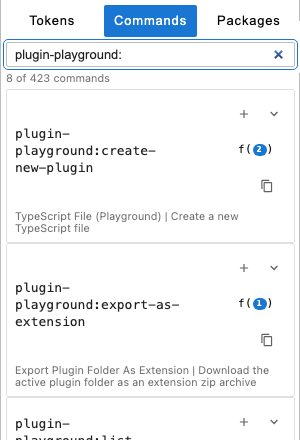
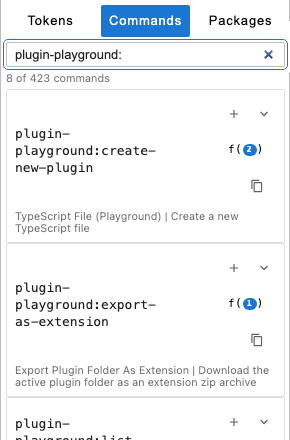
fix ordering and layout

diff --git a/ui-tests/tests/readme-screenshots.spec.ts b/ui-tests/tests/readme-screenshots.spec.ts
@@ -12,6 +12,7 @@ const EXAMPLE_SECTION_ID = 'jp-plugin-example-sidebar';
 const LOAD_ON_SAVE_CHECKBOX_LABEL = 'Auto Load on Save';
 const READABLE_DEMO_FILE = 'readme-screenshots.ts';
 const RIGHT_SIDEBAR_SCREENSHOT_WIDTH = 300;
+const EXTENSION_POINTS_GALLERY_WIDTH = 290;
 const EXTENSION_EXAMPLES_BOTTOM_PADDING = 24;
 const EXTENSION_EXAMPLES_MIN_HEIGHT = 180;
 const EDITOR_TOOLBAR_SCREENSHOT_HEIGHT = 420;
@@ -240,7 +241,7 @@ test('generate README screenshots', async ({ page }) => {
   }
 
   const extensionPointsSection = await openSidebarPanel(page, TOKEN_SECTION_ID);
-  await page.sidebar.setWidth(RIGHT_SIDEBAR_SCREENSHOT_WIDTH, 'right');
+  await page.sidebar.setWidth(EXTENSION_POINTS_GALLERY_WIDTH, 'right');
 
   await saveTopCroppedScreenshot(
     page,
@@ -268,6 +269,25 @@ test('generate README screenshots', async ({ page }) => {
     extensionPointsSection.locator('.jp-PluginPlayground-listItem').first()
   ).toBeVisible();
   await saveScreenshot(extensionPointsSection, 'extension-points-commands.png');
+
+  await extensionPointsSection.getByRole('tab', { name: 'Packages' }).click();
+  const packageFilter = extensionPointsSection.locator(
+    'input[aria-label="Filter packages"]'
+  );
+  await packageFilter.fill('@jupyterlab/');
+  await expect(
+    extensionPointsSection.locator('.jp-PluginPlayground-listItem').first()
+  ).toBeVisible({
+    timeout: 20_000
+  });
+  await saveScreenshot(extensionPointsSection, 'packages-reference.png');
+
+  await page.sidebar.setWidth(RIGHT_SIDEBAR_SCREENSHOT_WIDTH, 'right');
+  await extensionPointsSection.getByRole('tab', { name: 'Commands' }).click();
+  await commandFilter.fill('plugin-playground:');
+  await expect(
+    extensionPointsSection.locator('.jp-PluginPlayground-listItem').first()
+  ).toBeVisible();
 
   const firstCommandItem = extensionPointsSection
     .locator('.jp-PluginPlayground-listItem')
@@ -306,18 +326,6 @@ test('generate README screenshots', async ({ page }) => {
     timeout: 20_000
   });
   await saveScreenshot(extensionPointsSection, 'command-argument-docs.png');
-
-  await extensionPointsSection.getByRole('tab', { name: 'Packages' }).click();
-  const packageFilter = extensionPointsSection.locator(
-    'input[aria-label="Filter packages"]'
-  );
-  await packageFilter.fill('@jupyterlab/');
-  await expect(
-    extensionPointsSection.locator('.jp-PluginPlayground-listItem').first()
-  ).toBeVisible({
-    timeout: 20_000
-  });
-  await saveScreenshot(extensionPointsSection, 'packages-reference.png');
 
   const examplesSection = await openSidebarPanel(page, EXAMPLE_SECTION_ID);
   const examplesFilter = examplesSection.locator(

diff --git a/README.md b/README.md
@@ -27,8 +27,8 @@ Plugin Playground is built to keep the full plugin prototyping workflow inside J
 
 The right sidebar includes a single Plugin Playground panel with two collapsible sections. In **Extension Points**, the `Tokens` tab helps you discover available token strings and insert import/dependency updates, the `Commands` tab lets you search command IDs, inspect argument docs, and insert execution snippets (either directly or through AI-assisted prompt mode), and the `Packages` tab surfaces package docs plus npm and repository links for known modules.
 
-![Extension Points command discovery and insertion actions](docs/images/readme/extension-points-commands.png)
 ![Extension Points token discovery and insertion actions](docs/images/readme/extension-points-tokens.png)
+![Extension Points command discovery and insertion actions](docs/images/readme/extension-points-commands.png)
 ![Packages reference tab in Extension Points](docs/images/readme/packages-reference.png)
 
 The **Extension Examples** section lists discovered examples from `extension-examples/` and lets you open source entrypoints and README files directly. This keeps reference implementations close while you prototype.
